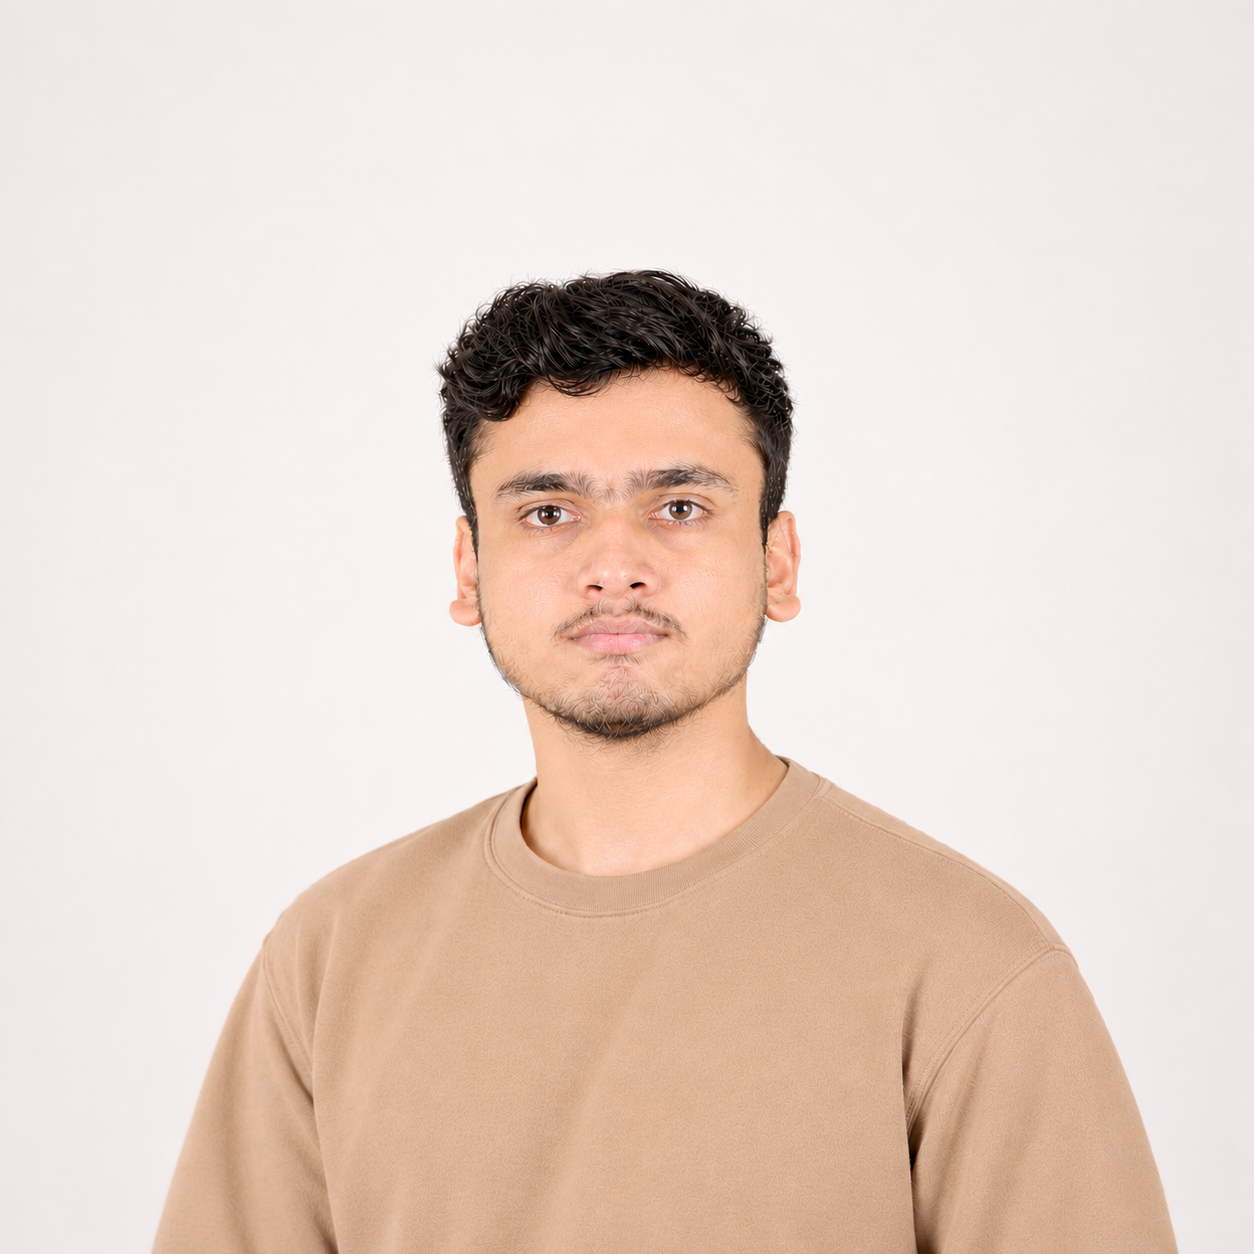
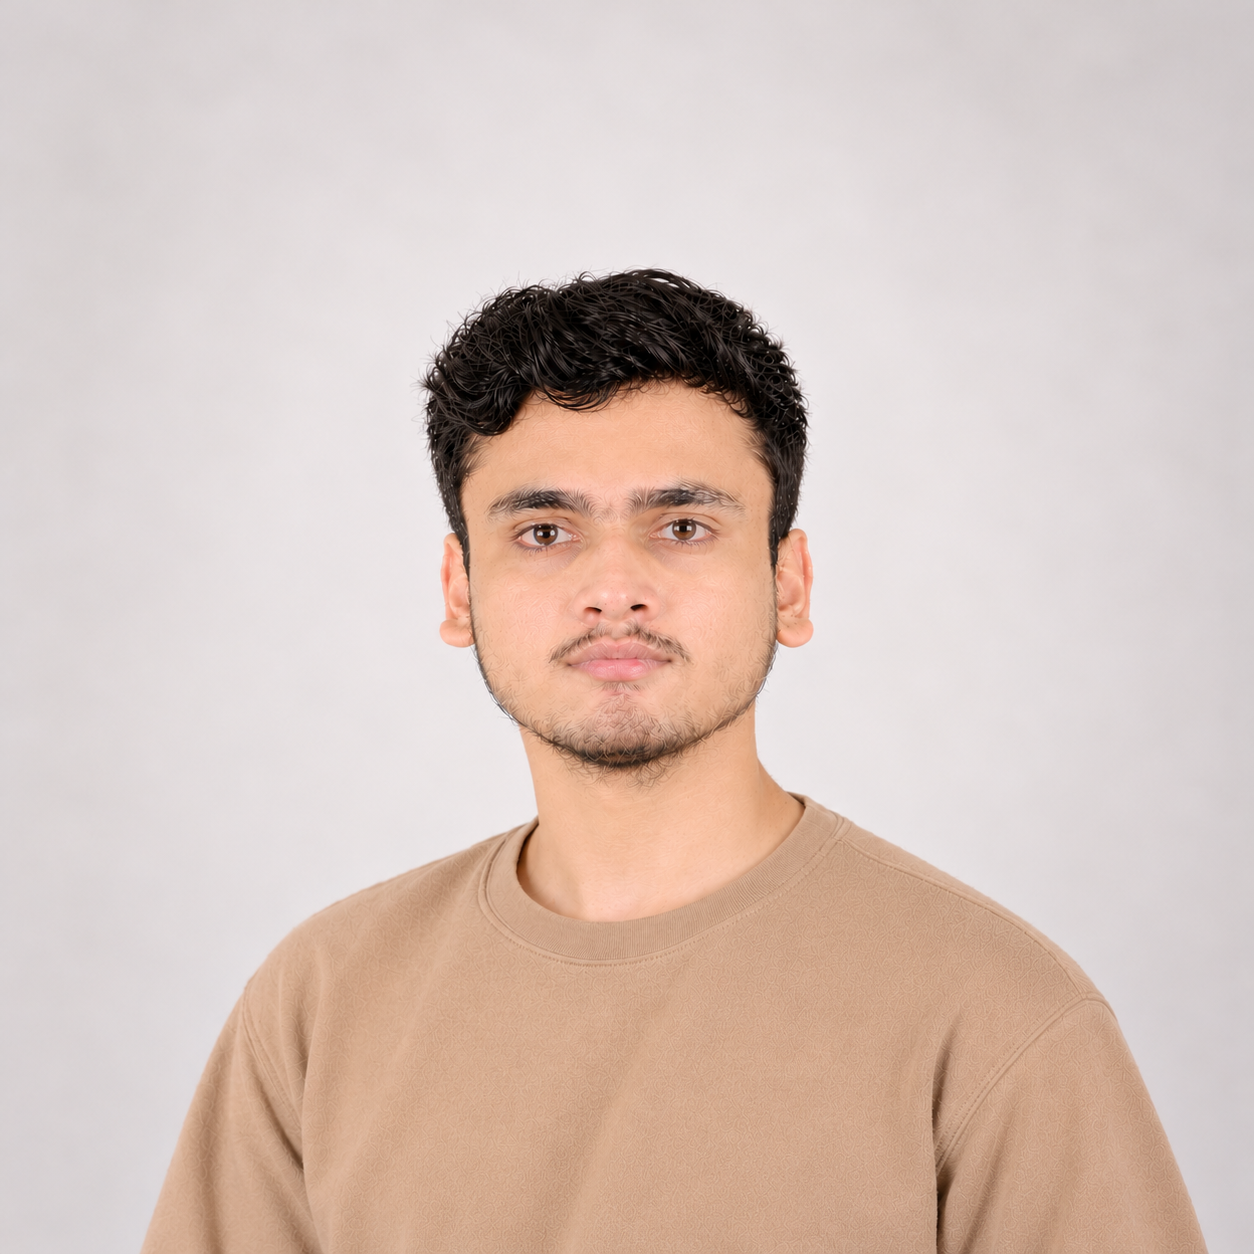
update

diff --git a/components/about.tsx b/components/about.tsx
@@ -99,13 +99,19 @@ export default function About() {
             className="lg:col-span-5"
           >
             <div className="relative aspect-square max-w-[280px] sm:max-w-sm mx-auto">
+              {/* Subtle gradient glow behind the image */}
               <div
-                className="absolute inset-0 rounded-3xl -translate-x-3 translate-y-3 border-2"
-                style={{ borderColor: "rgba(79,70,229,0.22)", background: "rgba(79,70,229,0.04)" }}
+                className="absolute -inset-3 rounded-[2rem] opacity-40 blur-2xl pointer-events-none"
+                style={{
+                  background: "radial-gradient(ellipse at center, rgba(79,70,229,0.25) 0%, rgba(124,58,237,0.12) 50%, transparent 80%)",
+                }}
               />
+              {/* Image container — single clean frame */}
               <div
-                className="relative h-full rounded-3xl overflow-hidden border-2 shadow-lg"
-                style={{ borderColor: "rgba(79,70,229,0.18)", background: "#eef2ff" }}
+                className="relative h-full rounded-2xl overflow-hidden shadow-xl"
+                style={{
+                  background: "linear-gradient(135deg, rgba(79,70,229,0.08), rgba(124,58,237,0.04))",
+                }}
               >
                 <Image
                   src="/profile.png"
